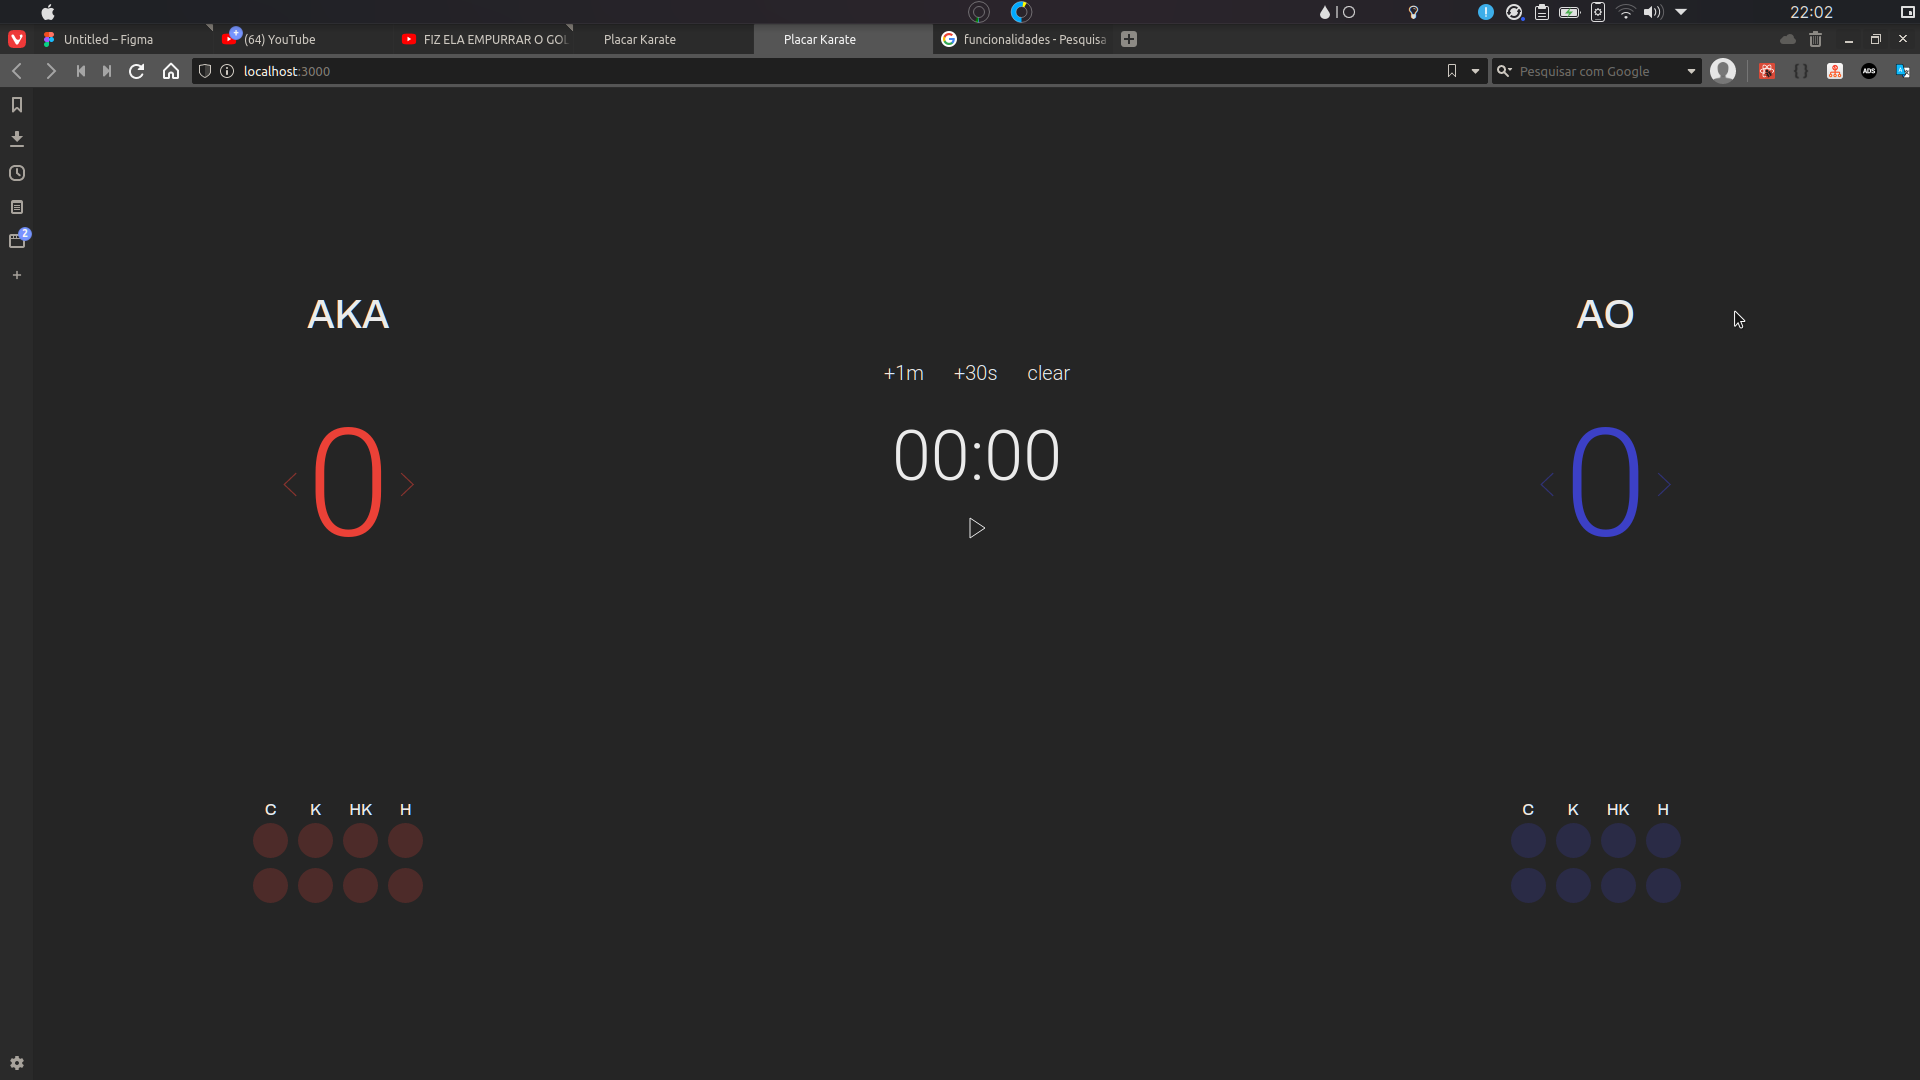
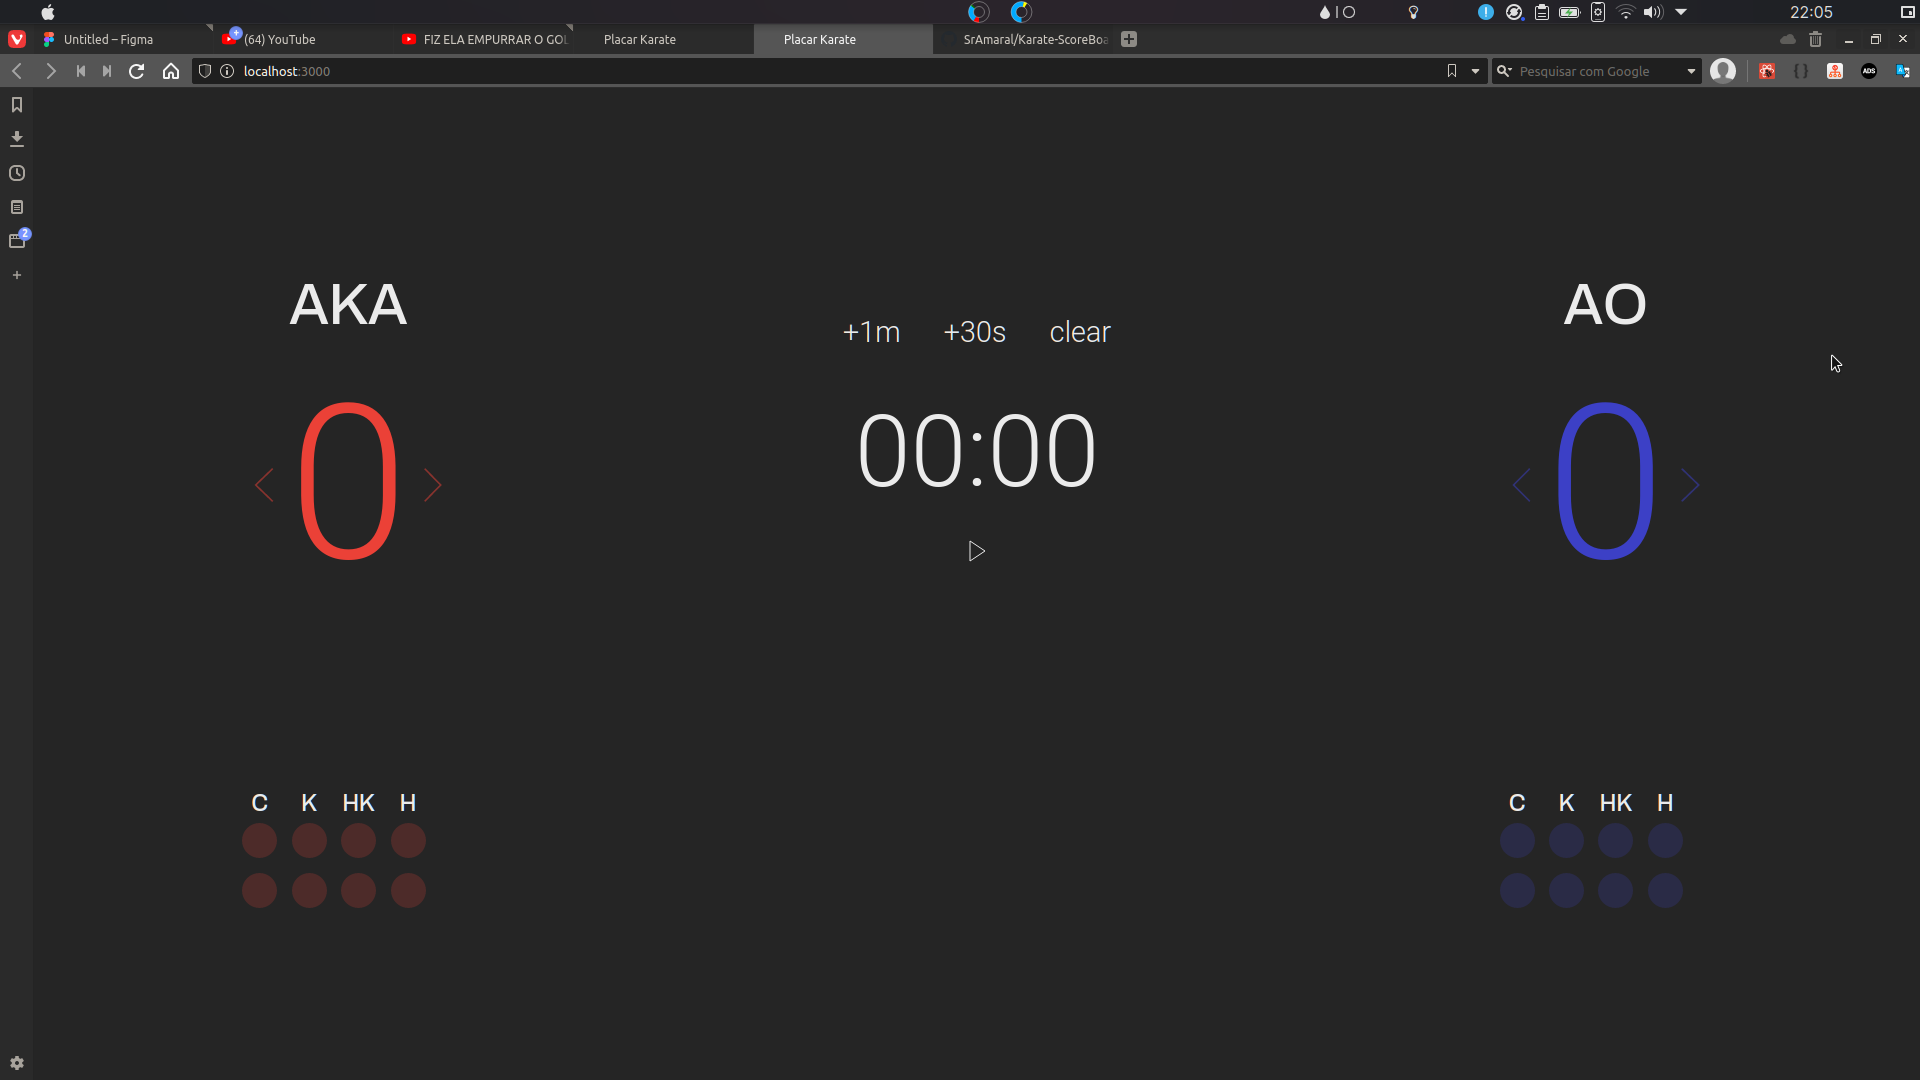
Size Font Modification

diff --git a/src/GlobalStyle/style.css b/src/GlobalStyle/style.css
@@ -36,8 +36,8 @@ body, input,button,textarea {
   max-width: 700px;
 }
 
-@media (min-width: 700px) {
+@media (min-width: 1200px) {
   :root {
-    font-size: 62.5%;
+    font-size: 90%;
   }
 }
